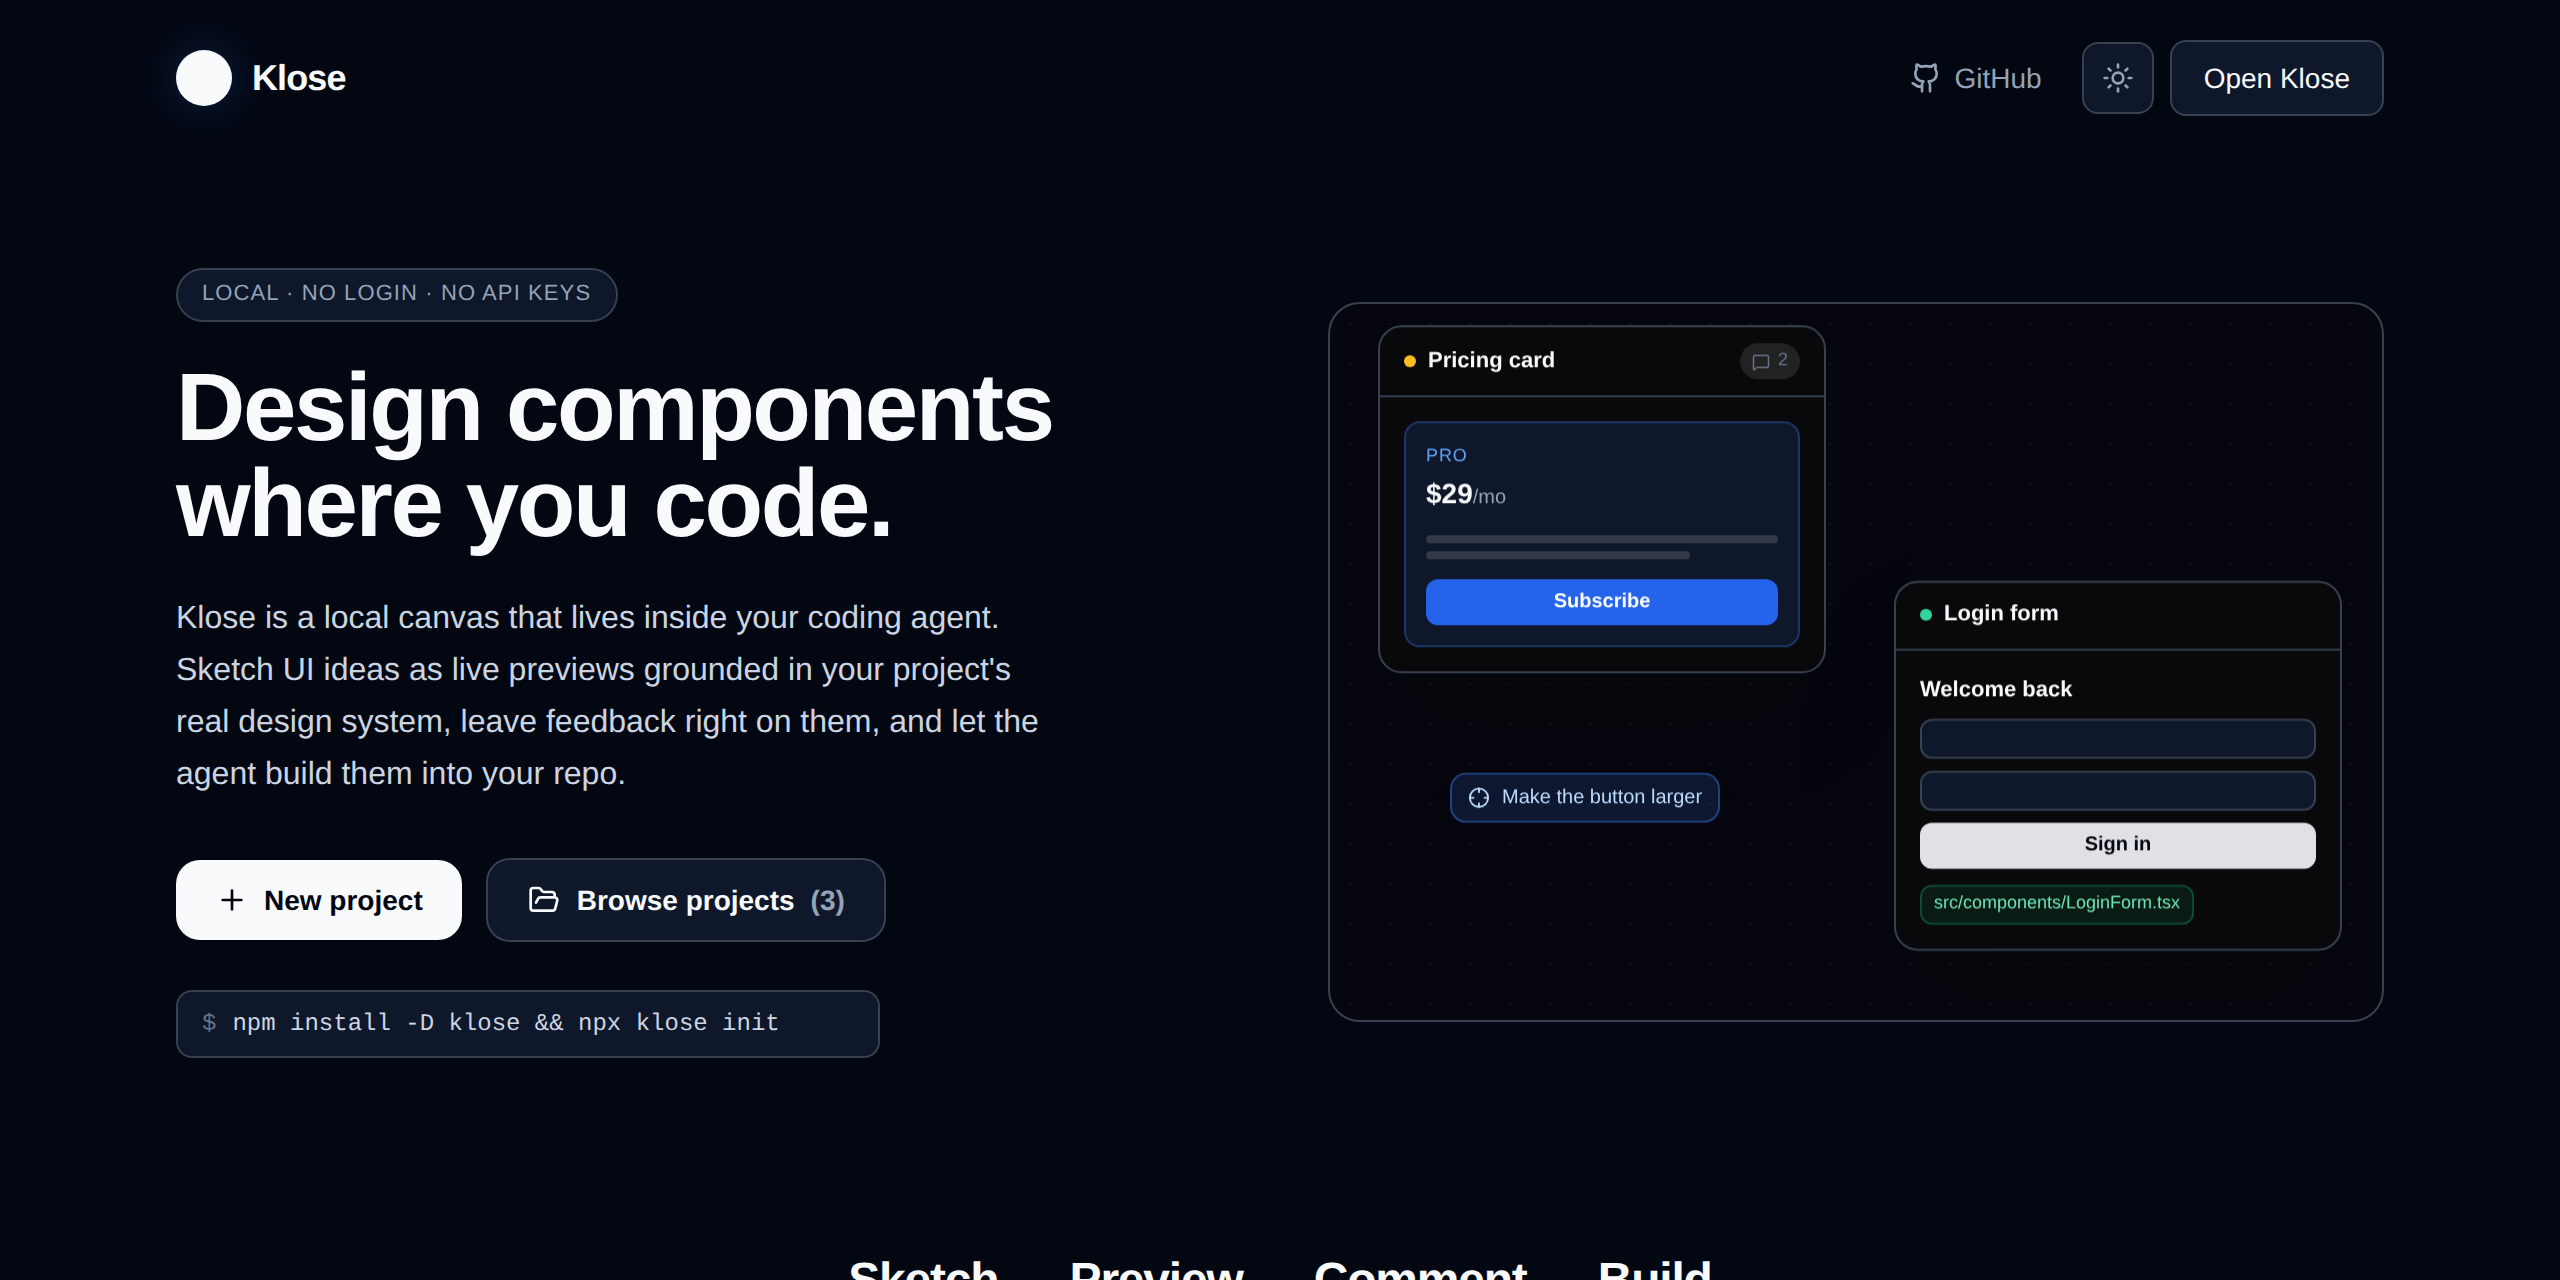
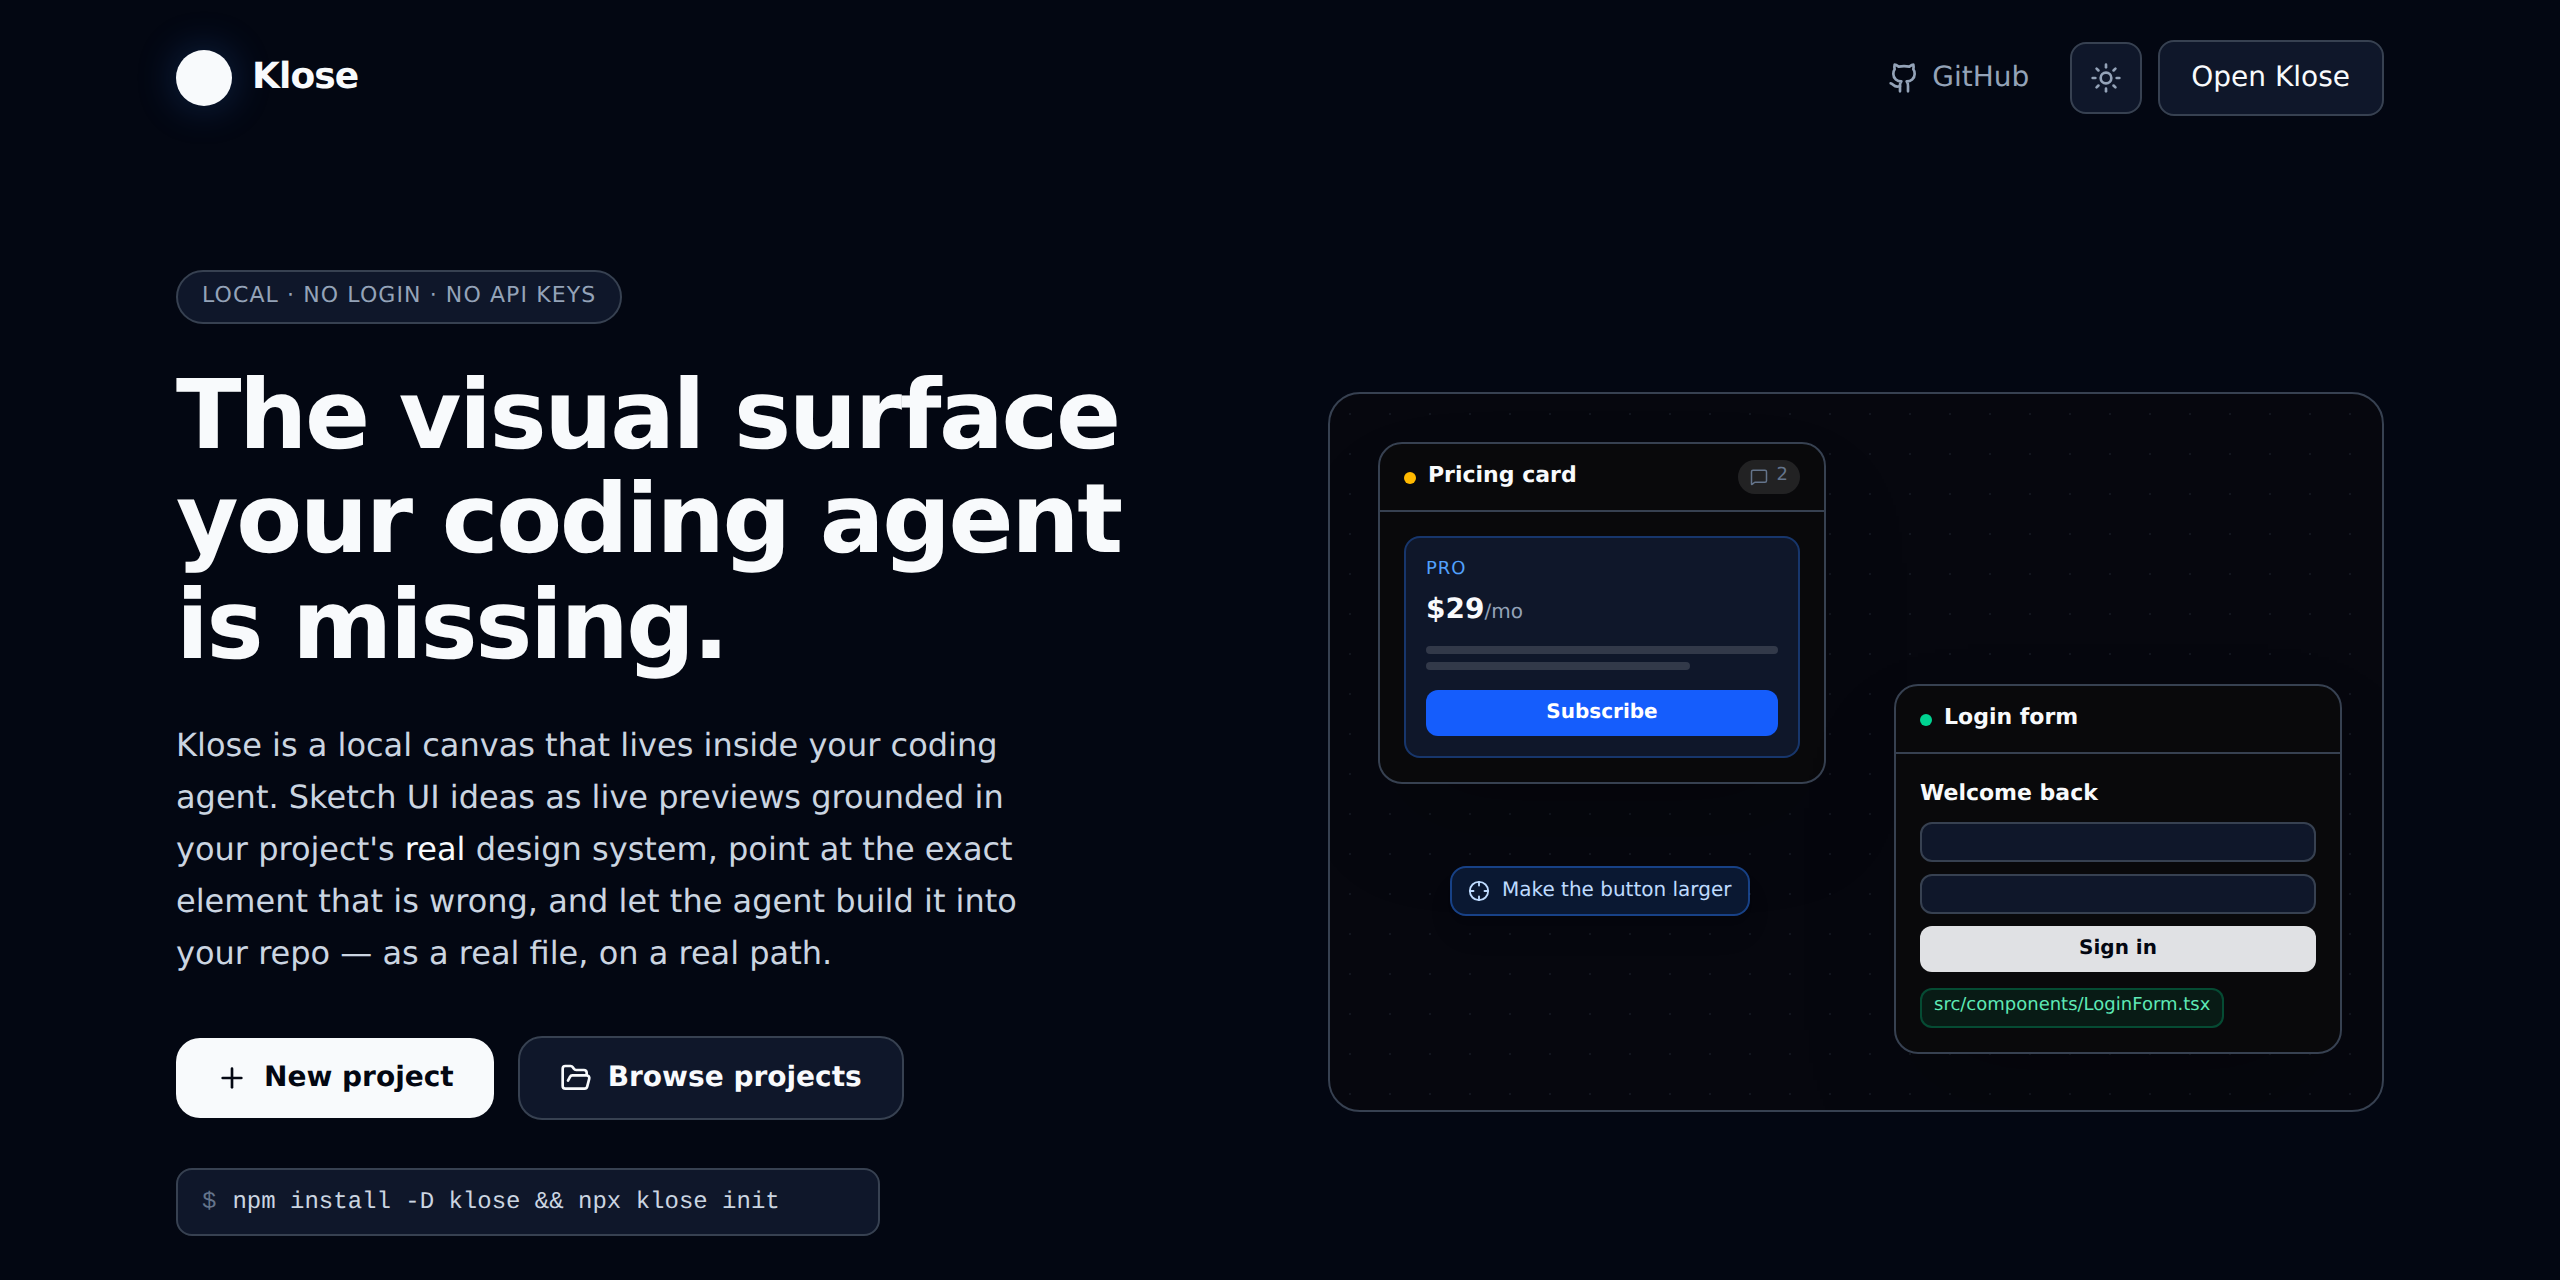
Refresh the surfaces around the README
The README landed the new positioning last PR, but the things that sit
beside it on GitHub and npm still said the old thing.

- docs/images/hero.png: the README's first image was a screenshot of the
  previous landing page, headline and all. Recaptured from the current
  one at the same 2560x1280.
- package.json: the npm description now leads with the element-scoped
  loop rather than "sketch component ideas", and adds four keywords
  people actually search (design-tool, component-library, react,
  developer-tools).
- index.html: a real <meta name="description"> for link previews, and a
  <title> that says what the app is rather than what it is called.
- docs/ARCHITECTURE.md: a lead-in tying the three claims the README now
  makes to the code that backs them, plus a new "The Component Index"
  section — server/scanner.js is one of those claims and was documented
  nowhere: what it walks, what it matches by regex, why a component with
  relative imports is flagged instead of previewed, the 4s cache, and the
  three surfaces that read it.
- skills/klose/SKILL.md: the /klose trigger now also names addressing
  canvas feedback, which step 2 of the skill already does.

Claude-Session: https://claude.ai/code/session_011i1LfzU3PPq3TNCasGNRJL

diff --git a/index.html b/index.html
@@ -3,7 +3,11 @@
   <head>
     <meta charset="utf-8" />
     <meta name="viewport" content="width=device-width, initial-scale=1" />
-    <title>Klose — Design ideation canvas</title>
+    <meta
+      name="description"
+      content="A local, no-login design canvas for coding agents. Sketch components against your repo's real design system, point at the exact element that is wrong, and let the agent build it."
+    />
+    <title>Klose — Design canvas for coding agents</title>
     <style type="text/tailwindcss">
       @theme {
         --font-sans: Inter, ui-sans-serif, system-ui, sans-serif;

diff --git a/docs/ARCHITECTURE.md b/docs/ARCHITECTURE.md
@@ -7,6 +7,17 @@ It gives you a local, no-login canvas for sketching component ideas — rendered
 board, not just as labeled boxes — and grounds the coding agent's ideation in your project's *actual*
 design system before it builds the real component into your repo.
 
+Three things follow from that, and they are what the rest of this document explains:
+
+- **Feedback carries a DOM path, not prose.** A comment can name the element it is about (tag, text,
+  classes, path), because the preview runs in a sandbox this app controls. That is the loop chat
+  cannot close — see [The Canvas UI](#the-canvas-ui).
+- **Context comes from the host repo, not from the model.** Tokens, conventions and an index of the
+  repo's real components are read off disk before anything is sketched — see
+  [The Component Index](#the-component-index).
+- **A sketch has a lifecycle.** `sketch` → `built`, and a built node keeps the path of the file it
+  produced, so later comments edit real code.
+
 Klose has no AI model of its own. It used to (an earlier version generated and live-rendered code via
 Google Gemini behind a hosted Supabase-backed SaaS), and that hosted pipeline — auth, cloud database,
 Gemini codegen — has been removed in favor of this local, agent-driven model. The live-preview
@@ -132,6 +143,33 @@ to every elevated surface on the canvas (the inspector, the sketch frames, the n
 The CLI (`bin/klose.js`) calls the same `server/store.js` functions directly for `project *`
 subcommands — it doesn't need the server running to read/write project data, but the server's
 directory watch means changes made either way show up live in the browser.
+
+---
+
+## The Component Index
+
+`server/scanner.js` walks the *host* repo and indexes its real components, so both the Components tab
+and the agent can reuse what already exists instead of sketching a duplicate. It is a deliberately
+dependency-free heuristic scanner (Klose ships zero runtime deps), not a TypeScript parser:
+
+- **What it walks** — `.tsx`/`.jsx` files under the repo root, skipping the usual build and vendor
+  directories (`node_modules`, `dist`, `.next`, `.klose`, `web`, …), files over 256 KB, and anything
+  past a 6000-file ceiling (the result carries `truncated: true` when that ceiling is hit).
+- **What it matches** — exported component declarations by regex (`export function Name`,
+  `export const Name =`, `export class Name`, `export default Name`), plus each one's props and its
+  leading doc comment. A `.tsx` file with no JSX and no React import is skipped, so plain utilities
+  typed `.tsx` don't pollute the index.
+- **Previewability** — a component that imports repo-local modules is flagged rather than executed,
+  since relative imports can't resolve inside the isolated sandbox.
+- **Repo identity** — `repoInfo()` reads `.git/HEAD` and `.git/config` directly for the name, branch
+  and remote shown on the Components tab's badge, so a global install always says which repo it is
+  looking at.
+- **Caching** — results are memoized per root for 4s (`force: true` bypasses it), which keeps the
+  Components tab responsive without the agent ever seeing a stale index between CLI calls.
+
+Three surfaces read it: `GET /api/components[?q=]` (the Components tab), `klose components [query]`
+(what the `/klose` skill runs before it sketches), and `readComponentSource()` for the detail view —
+which resolves the requested path and rejects anything escaping the repo root or not a source file.
 
 ---
 

diff --git a/skills/klose/SKILL.md b/skills/klose/SKILL.md
@@ -1,6 +1,6 @@
 ---
 name: klose
-description: Open the local Klose design-ideation canvas for this repo, ideate a new UI component against the project's real design system, render a live preview of it on the canvas, and build it as a real file once the user confirms. Use when the user says "/klose", asks to sketch/ideate a component visually, or wants to design something before building it.
+description: Open the local Klose design-ideation canvas for this repo, ideate a new UI component against the project's real design system, render a live preview of it on the canvas, and build it as a real file once the user confirms. Use when the user says "/klose", asks to sketch/ideate a component visually, wants to design something before building it, or asks you to address feedback or comments left on the canvas.
 ---
 
 # Klose: ideate on the canvas, build in the repo
